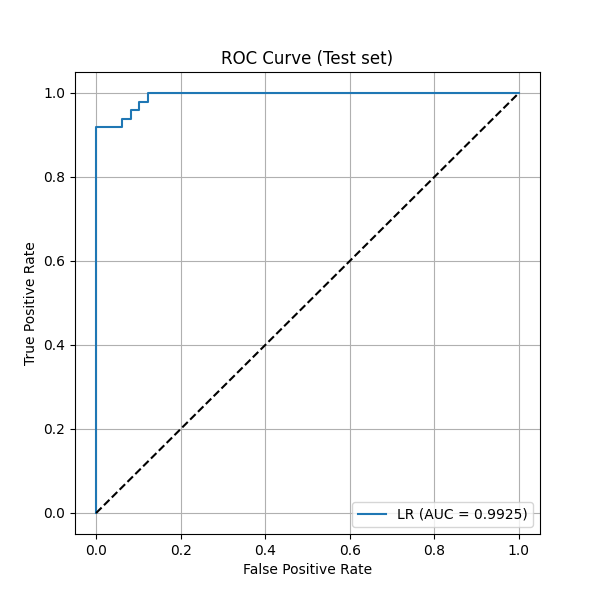
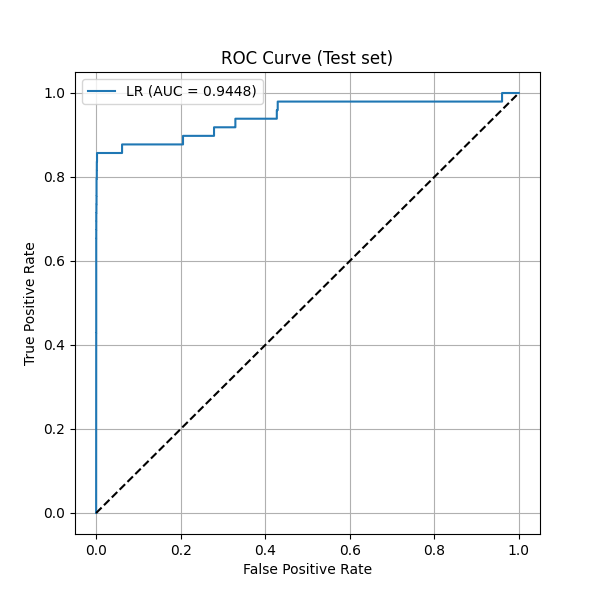
first commit

diff --git a/src/data_loader.py b/src/data_loader.py
@@ -1,34 +1,37 @@
 import pandas as pd
+from sklearn.model_selection import train_test_split
 
-def data_loader(df):
-    # Shuffle dataset trước
-    df_shuffled = df.sample(frac=1, random_state=42)
+def data_loader(df, test_size=0.1, random_state=42):
+    """
+    Chia train/test theo tỷ lệ 90/10.
+    Giữ nguyên phân phối Class (0/1) bằng stratify.
+    Không cân bằng lại dữ liệu.
+    """
+    # Shuffle toàn bộ dataset trước
+    df_shuffled = df.sample(frac=1, random_state=random_state)
 
-    # Tách fraud và normal
-    fraud_df = df_shuffled[df_shuffled['Class'] == 1]
-    non_fraud_df = df_shuffled[df_shuffled['Class'] == 0]
+    # Tách X, y
+    X = df_shuffled.drop(columns=['Class'])
+    y = df_shuffled['Class']
 
-    # --- Test set ---
-    n_fraud_test = int(0.1 * len(fraud_df))  # 10% số fraud
-    fraud_test = fraud_df.sample(n=n_fraud_test, random_state=42)
-    normal_test = non_fraud_df.sample(n=n_fraud_test, random_state=42)  # cân bằng
+    # Stratified split để giữ tỷ lệ fraud/non-fraud như ban đầu
+    X_train, X_test, y_train, y_test = train_test_split(
+        X, y,
+        test_size=test_size,
+        random_state=random_state,
+        stratify=y
+    )
 
-    test_df = pd.concat([fraud_test, normal_test]).sample(frac=1, random_state=42)
+    # Gộp lại thành train_df và test_df
+    train_df = pd.concat([X_train, y_train], axis=1)
+    test_df  = pd.concat([X_test,  y_test],  axis=1)
 
-    # --- Train set ---
-    fraud_train = fraud_df.drop(fraud_test.index)
-    n_fraud_train = len(fraud_train)
-
-    normal_train = non_fraud_df.drop(normal_test.index).sample(n=n_fraud_train, random_state=42)
-
-    train_df = pd.concat([fraud_train, normal_train]).sample(frac=1, random_state=42)
-
-    # --- Gộp train + test thành new_df ---
-    new_df = pd.concat([train_df, test_df]).sample(frac=1, random_state=42)
+    # new_df: train + test
+    new_df = pd.concat([train_df, test_df]).sample(frac=1, random_state=random_state)
 
     # Kiểm tra phân bố
-    print("Train class distribution:\n", train_df['Class'].value_counts())
-    print("Test class distribution:\n", test_df['Class'].value_counts())
-    print("New_df class distribution:\n", new_df['Class'].value_counts())
+    print("Train distribution:\n", train_df['Class'].value_counts(normalize=True))
+    print("Test distribution:\n", test_df['Class'].value_counts(normalize=True))
+    print("Original distribution:\n", df['Class'].value_counts(normalize=True))
 
     return train_df, test_df, new_df

diff --git a/src/train.py b/src/train.py
@@ -1,36 +1,45 @@
+from imblearn.over_sampling import SMOTE
+import joblib
 from sklearn.linear_model import LogisticRegression
-from sklearn.metrics import roc_auc_score, roc_curve, classification_report
+from sklearn.metrics import classification_report, roc_auc_score, roc_curve
 import matplotlib.pyplot as plt
-import joblib   # <--- thêm thư viện để lưu mô hình
 
-def train_lr_full_train(df_train, df_test, target_col='Class', save_plot_prefix='lr', 
-                        save_model_path='lr_model.pkl', C=1.0, max_iter=500):
-    """
-    Train Logistic Regression trên toàn bộ train set, đánh giá trực tiếp trên test set.
-    Đồng thời lưu mô hình đã train vào file.
-    """
+
+def train_lr_full_train(
+    df_train, 
+    df_test, 
+    target_col='Class', 
+    save_plot_prefix='lr', 
+    save_model_path='lr_model.pkl',
+    max_iter=200,
+    class_weights='balanced',   # optional
+    use_smote=False              # <-- mới
+):
     # Tách features và label
     X_train = df_train.drop(columns=[target_col])
     y_train = df_train[target_col]
     X_test = df_test.drop(columns=[target_col])
     y_test = df_test[target_col]
 
+    # Áp dụng SMOTE nếu cần
+    if use_smote:
+        smote = SMOTE(random_state=42)
+        X_train, y_train = smote.fit_resample(X_train, y_train)
+        print(f"After SMOTE, class distribution:\n{y_train.value_counts()}")
+
     # Train Logistic Regression
     lr = LogisticRegression(
-        C=C,
-        penalty='l2',
-        solver='liblinear',
-        class_weight='balanced',
+        class_weight=class_weights,
         random_state=42,
         max_iter=max_iter
     )
     lr.fit(X_train, y_train)
 
-    # Lưu mô hình
+    # Lưu model
     joblib.dump(lr, save_model_path)
     print(f"\nModel saved to: {save_model_path}")
 
-    # Dự đoán trên test set
+    # Dự đoán
     y_pred = lr.predict(X_test)
     y_proba = lr.predict_proba(X_test)[:,1]
 
@@ -52,4 +61,9 @@ def train_lr_full_train(df_train, df_test, target_col='Class', save_plot_prefix=
     plt.savefig(f'{save_plot_prefix}_roc.png')
     plt.show()
 
-    return lr, {'y_test': y_test, 'y_pred': y_pred, 'y_proba': y_proba, 'roc_auc': auc_score}
+    return lr, {
+        'y_test': y_test, 
+        'y_pred': y_pred, 
+        'y_proba': y_proba, 
+        'roc_auc': auc_score
+    }

diff --git a/src/preprocessing.py b/src/preprocessing.py
@@ -1,5 +1,8 @@
 import numpy as np
 import pandas as pd
+from sklearn.preprocessing import RobustScaler
+import pandas as pd
+import joblib
 
 def remove_extreme_outliers(df, features=['V14','V12','V10'], class_col='Class', class_value=1, iqr_multiplier=1.5):
     """
@@ -40,10 +43,9 @@ def remove_extreme_outliers(df, features=['V14','V12','V10'], class_col='Class',
     return df_clean
 
 
-from sklearn.preprocessing import RobustScaler
-from sklearn.preprocessing import RobustScaler
 
-def scale_amount_time_train_test(train_df, test_df, scaler_type='robust', save_scaler=False):
+
+def scale_amount_time_train_test(train_df, test_df, scaler_type='standard', save_scaler=True):
     """
     Scale Amount và Time, fit trên train, transform train + test
     Trả về train_df, test_df đã scale và các scaler đã fit để dùng sau
@@ -83,8 +85,7 @@ def scale_amount_time_train_test(train_df, test_df, scaler_type='robust', save_s
     return train_df, test_df, scaler_amount, scaler_time
 
 
-import pandas as pd
-import joblib
+
 
 def scale_test_with_saved_scaler(test_df, amount_scaler_path='scaler_amount.pkl', time_scaler_path='scaler_time.pkl'):
     """

diff --git a/main.py b/main.py
@@ -18,7 +18,7 @@ train_df, test_df, new_df = data_loader(df)
 train_df_clean = remove_extreme_outliers(train_df)
 # boxplot_outliers(train_df_clean, features=['V10', 'V12', 'V14'], save_name='boxplot_after_outlier_removal.png')
 
-train_df_scaled, test_df_scaled, scaler_amount, scaler_time = scale_amount_time_train_test(train_df_clean, test_df, scaler_type='robust', save_scaler=True)
+train_df_scaled, test_df_scaled, scaler_amount, scaler_time = scale_amount_time_train_test(train_df_clean, test_df)
 
 
-best_lr_model, test_metrics = train_lr_full_train(train_df_scaled, test_df_scaled, C=1.0, max_iter=500)
+best_lr_model, test_metrics = train_lr_full_train(train_df_scaled, test_df_scaled, use_smote=True)
